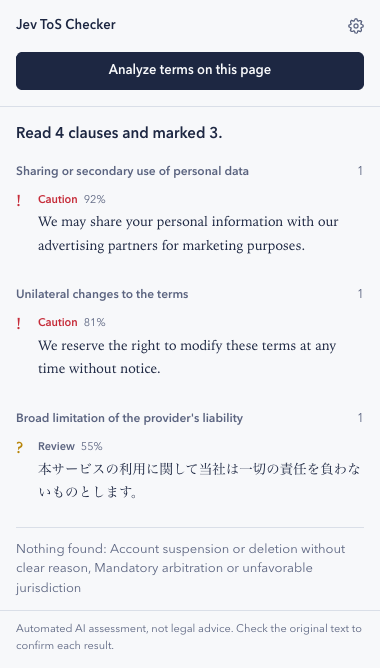
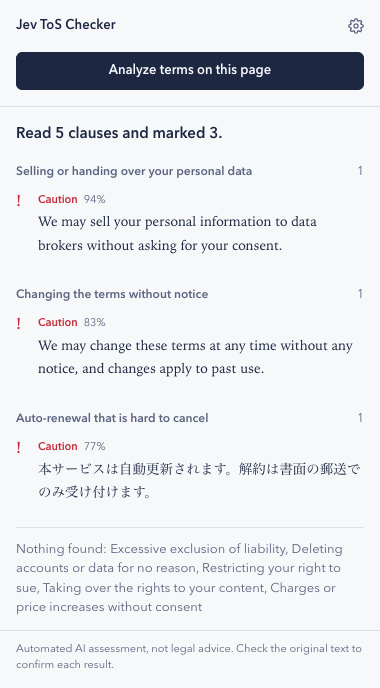
Update docs and screenshots for abusive-clause detection

diff --git a/docs/ja/index.html b/docs/ja/index.html
@@ -30,7 +30,7 @@
         <p class="specimen-title">利用規約</p>
         <p class="clause high"><span><span class="verdict">要注意</span>当社は、利用者の個人情報をマーケティングの目的で広告提携先に提供することがあります。</span></p>
         <p class="clause high"><span><span class="verdict">要注意</span>当社は、事前の通知なくいつでも本規約を変更できるものとします。</span></p>
-        <p class="clause review"><span><span class="verdict">要確認</span>法令で認められる最大限の範囲で、当社は間接損害および派生的損害について責任を負いません。</span></p>
+        <p class="clause plain"><span>当社の損害賠償責任は、法令で制限できない場合を除き、利用者が過去12か月間に支払った金額を上限とします。</span></p>
         <p class="clause plain"><span>本規約は、利用者の居住国の法令に準拠します。</span></p>
         <figcaption class="specimen-caption">印の付き方の例です。説明のために作った条文です。</figcaption>
       </figure>
@@ -39,17 +39,19 @@
     <main class="wrap">
       <section id="about">
         <h2>できること</h2>
-        <p>利用規約は長く、大事な条項ほど見落としがちです。この拡張機能は規約のページを条項ごとに分け、5種類のリスクについて1つずつ判定します。該当した条項は原文と一緒に表示するので、最終的な判断はご自身で行えます。</p>
+        <p>利用規約は長く、大事な条項ほど見落としがちです。この拡張機能は規約のページを条項ごとに分け、8種類の悪質な条項に当たるかを1つずつ判定します。印を付けるのは、大手サービスで一般的な範囲を大きく超える条項だけなので、ありふれた条項で不安にさせることはありません。該当した条項は原文と一緒に表示するので、最終的な判断はご自身で行えます。</p>
         <ul class="categories">
-          <li><strong>個人情報</strong><span>データの第三者提供や目的外利用</span></li>
-          <li><strong>規約変更</strong><span>事前の通知なく規約を変更できる条項</span></li>
-          <li><strong>責任制限</strong><span>事業者の責任を広く免除・制限する条項</span></li>
-          <li><strong>アカウント</strong><span>明確な理由なくアカウントを停止・削除できる条項</span></li>
-          <li><strong>紛争解決</strong><span>強制仲裁、集団訴訟の放棄、利用者に不利な裁判管轄</span></li>
+          <li><strong>個人情報</strong><span>同意なく個人情報を販売・提供する</span></li>
+          <li><strong>規約変更</strong><span>予告なく、または遡って規約を変更する</span></li>
+          <li><strong>責任制限</strong><span>事業者の故意による損害まで免責する</span></li>
+          <li><strong>アカウント</strong><span>理由なくアカウントやデータを削除し、残高も返さない</span></li>
+          <li><strong>紛争解決</strong><span>強制仲裁、集団訴訟の放棄、訴訟の禁止</span></li>
+          <li><strong>自動更新</strong><span>郵送でしか解約できない、解約の違約金</span></li>
+          <li><strong>投稿コンテンツ</strong><span>著作権を取り上げる、販売する権利を得る</span></li>
+          <li><strong>料金</strong><span>同意や通知なしの請求・値上げ</span></li>
         </ul>
         <ul class="marks">
-          <li><span class="glyph high" aria-hidden="true">!</span><span><strong>要注意</strong>は、そのリスクを含む可能性が高い条項です。</span></li>
-          <li><span class="glyph review" aria-hidden="true">?</span><span><strong>要確認</strong>は、含む可能性がある条項です。原文を読んで判断してください。</span></li>
+          <li><span class="glyph high" aria-hidden="true">!</span><span><strong>要注意</strong>は、悪質な可能性が高い条項です。責任の上限や本社所在地の裁判所の指定など、一般的な条項には印を付けません。</span></li>
         </ul>
         <p class="muted">どのサイトでも、どの言語の規約でも使えます。拡張機能の画面は、ブラウザの言語に合わせて日本語か英語で表示されます。</p>
       </section>

diff --git a/docs/index.html b/docs/index.html
@@ -30,7 +30,7 @@
         <p class="specimen-title">Terms of Service</p>
         <p class="clause high"><span><span class="verdict">Caution</span>We may share your personal information with our advertising partners for marketing purposes.</span></p>
         <p class="clause high"><span><span class="verdict">Caution</span>We reserve the right to modify these terms at any time without notice.</span></p>
-        <p class="clause review"><span><span class="verdict">Review</span>To the fullest extent permitted by law, we are not liable for any indirect or consequential damages.</span></p>
+        <p class="clause plain"><span>Our total liability is limited to the amount you paid us in the past 12 months, except where the law does not allow it.</span></p>
         <p class="clause plain"><span>These terms are governed by the laws of the country where you reside.</span></p>
         <figcaption class="specimen-caption">An example of how clauses are marked. These clauses are made up for illustration.</figcaption>
       </figure>
@@ -39,17 +39,19 @@
     <main class="wrap">
       <section id="about">
         <h2>What it does</h2>
-        <p>Terms of service are long, and the clauses that matter most are easy to miss. The extension splits a terms page into clauses and checks each one for five kinds of risk. Every match is shown with its original text, so you can judge it yourself.</p>
+        <p>Terms of service are long, and the clauses that matter most are easy to miss. The extension splits a terms page into clauses and checks each one for eight kinds of abusive terms. It marks only clauses that go well beyond what is common among major services, so ordinary terms do not set off alarms. Every match is shown with its original text, so you can judge it yourself.</p>
         <ul class="categories">
-          <li><strong>Personal data</strong><span>Sharing your data with third parties or using it for other purposes</span></li>
-          <li><strong>Changes to the terms</strong><span>Changing the terms without telling you in advance</span></li>
-          <li><strong>Liability</strong><span>The provider broadly excluding or limiting its liability</span></li>
-          <li><strong>Accounts</strong><span>Suspending or deleting accounts without clear reasons</span></li>
-          <li><strong>Disputes</strong><span>Mandatory arbitration, class action waivers, or courts that are unfavorable to you</span></li>
+          <li><strong>Personal data</strong><span>Selling your data or giving it to third parties without consent</span></li>
+          <li><strong>Changes to the terms</strong><span>Changing the terms with no notice, or retroactively</span></li>
+          <li><strong>Liability</strong><span>No liability even for the provider's intentional misconduct</span></li>
+          <li><strong>Accounts</strong><span>Deleting your account and data for no reason, keeping your balance</span></li>
+          <li><strong>Disputes</strong><span>Forced arbitration, class action waivers, or banning lawsuits</span></li>
+          <li><strong>Auto-renewal</strong><span>Cancellation only by mail, or cancellation penalties</span></li>
+          <li><strong>Your content</strong><span>Taking ownership of your content, or the right to sell it</span></li>
+          <li><strong>Fees</strong><span>Charging you or raising prices without consent or notice</span></li>
         </ul>
         <ul class="marks">
-          <li><span class="glyph high" aria-hidden="true">!</span><span><strong>Caution</strong> means the clause very likely includes the risk.</span></li>
-          <li><span class="glyph review" aria-hidden="true">?</span><span><strong>Review</strong> means it might. Read the clause and decide.</span></li>
+          <li><span class="glyph high" aria-hidden="true">!</span><span><strong>Caution</strong> marks a clause that is likely abusive. Common terms, such as a cap on liability or the provider's home courts, are not marked.</span></li>
         </ul>
         <p class="muted">It works on any site and with terms in any language. The extension itself is shown in English or Japanese, following your browser.</p>
       </section>

diff --git a/docs/style.css b/docs/style.css
@@ -1,4 +1,4 @@
-/* 拡張機能 (extension/base.css) と同じ、紙・インク・赤ペン・黄土の配色 */
+/* 拡張機能 (extension/base.css) と同じ、紙・インク・赤ペンの配色 */
 :root {
   color-scheme: light dark;
   --paper: #f7f8fa;
@@ -7,7 +7,6 @@
   --ink-muted: #5b6480;
   --rule: #dadfe8;
   --red-pen: #c62d3a;
-  --ochre: #b8860b;
 
   --font-ui: "Avenir Next", "Hiragino Sans", "Segoe UI Variable Text", "Yu Gothic UI", "Noto Sans JP", sans-serif;
   --font-text: "Iowan Old Style", "Hiragino Mincho ProN", "Yu Mincho", "Noto Serif JP", Georgia, serif;
@@ -21,7 +20,6 @@
     --ink-muted: #9aa3ba;
     --rule: #2a3247;
     --red-pen: #ff7380;
-    --ochre: #e0b84a;
   }
 }
 
@@ -126,7 +124,6 @@ a { color: inherit; text-underline-offset: 3px; }
   line-height: 1.3;
 }
 .clause.high::before { content: "!" / ""; color: var(--red-pen); }
-.clause.review::before { content: "?" / ""; color: var(--ochre); }
 .clause > span { grid-column: 2; }
 .clause.plain { color: var(--ink-muted); }
 .clause .verdict {
@@ -137,7 +134,6 @@ a { color: inherit; text-underline-offset: 3px; }
   line-height: 1.6;
 }
 .clause.high .verdict { color: var(--red-pen); }
-.clause.review .verdict { color: var(--ink-muted); }
 .specimen-caption {
   margin: 8px 0 0;
   font-size: 13px;
@@ -183,7 +179,6 @@ p { margin: 0 0 16px; }
 .marks li { display: grid; grid-template-columns: 20px 1fr; column-gap: 12px; margin-bottom: 8px; }
 .marks .glyph { font-family: var(--font-text); font-size: 20px; font-weight: 700; line-height: 1.4; }
 .marks .high { color: var(--red-pen); }
-.marks .review { color: var(--ochre); }
 
 /* 手順は実際に順番があるので番号を付ける */
 .steps {

diff --git a/README.ja.md b/README.ja.md
@@ -10,7 +10,7 @@
 
 ## About
 
-利用規約は長く、大事な条項ほど見落としがちです。Jev ToS Checker は規約のページを条項ごとに分け、5種類のリスクについて1つずつ判定します。該当した条項は原文と一緒に表示するので、最終的な判断はご自身で行えます。
+利用規約は長く、悪質な条項が紛れていても見落としがちです。Jev ToS Checker は規約のページを条項ごとに分け、8種類の悪質な条項に当たるかを1つずつ判定します。印を付けるのは、大手サービスで一般的な範囲を大きく超える条項だけなので、ありふれた条項で不安にさせることはありません。該当した条項は原文と一緒に表示するので、最終的な判断はご自身で行えます。
 
 - **どのサイトでも使える**: 開いているページをその場で解析します。事前に評価済みのサービスに限られません。
 - **根拠を示す**: 結果を押すと、ページ内の該当する条項までスクロールして枠で示します。
@@ -21,15 +21,18 @@
 
 ### 判定する内容
 
-| カテゴリ | 見つけるもの |
-| --- | --- |
-| 個人情報 | データの第三者提供や目的外利用 |
-| 規約変更 | 事前の通知なく規約を変更できる条項 |
-| 責任制限 | 事業者の責任を広く免除・制限する条項 |
-| アカウント | 明確な理由なくアカウントを停止・削除できる条項 |
-| 紛争解決 | 強制仲裁、集団訴訟の放棄、利用者に不利な裁判管轄 |
+| カテゴリ | 印を付ける例 | 印を付けない例 |
+| --- | --- | --- |
+| 個人情報 | 同意なく個人情報を販売・提供する | 業務委託先への提供、法令に基づく開示 |
+| 規約変更 | 予告なく、または遡って規約を変更する | 事前に通知したうえでの変更 |
+| 責任制限 | 事業者の故意による損害まで免責する | 支払額を上限とする責任制限 |
+| アカウント | 理由なくアカウントやデータを削除し、残高も返さない | 重大な違反時の、通知つきの停止 |
+| 紛争解決 | 強制仲裁、集団訴訟の放棄、訴訟の禁止 | 本社所在地の裁判所(居住地の裁判所も使える場合) |
+| 自動更新 | 郵送でしか解約できない、解約の違約金 | いつでもオンラインで解約できる自動更新 |
+| 投稿コンテンツ | 著作権を取り上げる、販売する権利を得る | サービスの運営と改善に限った利用許諾 |
+| 料金 | 同意や通知なしの請求・値上げ | 事前に通知し、解約も選べる値上げ |
 
-各条項にカテゴリごとの 0〜1 のスコアが付きます。0.7 以上を **要注意**、0.3 以上 0.7 未満を **要確認** として表示します。
+各条項は前後の段落と一緒に判定するので、直後の但し書きも考慮されます。悪質である確率が 70% 以上の条項に **要注意** の印を付けます。
 
 ## インストール
 

diff --git a/README.md b/README.md
@@ -10,7 +10,7 @@ A Chrome extension that reads the terms of service on the page you are viewing a
 
 ## About
 
-Terms of service are long, and the clauses that matter most are easy to miss. Jev ToS Checker splits a terms page into clauses and checks each one for five kinds of risk. It shows every match next to the original text, so you can judge it yourself.
+Terms of service are long, and an abusive clause is easy to miss. Jev ToS Checker splits a terms page into clauses and checks each one for eight kinds of abusive terms. It marks only clauses that go well beyond what is common among major services, so it does not alarm you about ordinary terms. Every match is shown next to the original text, so you can judge it yourself.
 
 - **Works on any site.** It analyzes the page in front of you on the spot, so it does not depend on a database of pre-reviewed services.
 - **Shows its evidence.** Click a result to scroll to that clause on the page and highlight it.
@@ -21,15 +21,18 @@ This tool helps you find clauses worth a closer look. It does not decide whether
 
 ### What it checks
 
-| Category | What it looks for |
-| --- | --- |
-| Personal data | Sharing your data with third parties or using it for other purposes |
-| Changes to the terms | Changing the terms without notifying you in advance |
-| Liability | The provider broadly excluding or limiting its liability |
-| Accounts | Suspending or deleting accounts without clear reasons |
-| Disputes | Mandatory arbitration, class action waivers, or venues that are unfavorable to you |
+| Category | Marked, for example | Not marked, for example |
+| --- | --- | --- |
+| Personal data | Selling your data or giving it to third parties without consent | Sharing with vendors that work for the service, or when the law requires it |
+| Changes to the terms | Changing the terms with no notice, or retroactively | Changes announced in advance |
+| Liability | No liability even for the provider's intentional misconduct | Capping liability at the fees you paid |
+| Accounts | Deleting your account and data for no reason, keeping your balance | Suspending accounts for serious violations, with notice |
+| Disputes | Forced arbitration, class action waivers, banning lawsuits | The provider's home courts, while your local courts stay available |
+| Auto-renewal | Cancellation only by mail, or cancellation penalties | Renewal you can cancel online at any time |
+| Your content | Taking ownership of your content, or the right to sell it | A license only to run and improve the service |
+| Fees | Charging you or raising prices without consent or notice | Price changes announced in advance, with the option to cancel |
 
-Each clause gets a score from 0 to 1 per category. A score of 0.7 or higher is shown as **Caution**, and from 0.3 up to 0.7 as **Review**.
+Each clause is judged together with the paragraphs around it, so an exception in the next paragraph is taken into account. A clause is marked as **Caution** when the probability that it is abusive is 70% or higher.
 
 ## Installation
 
